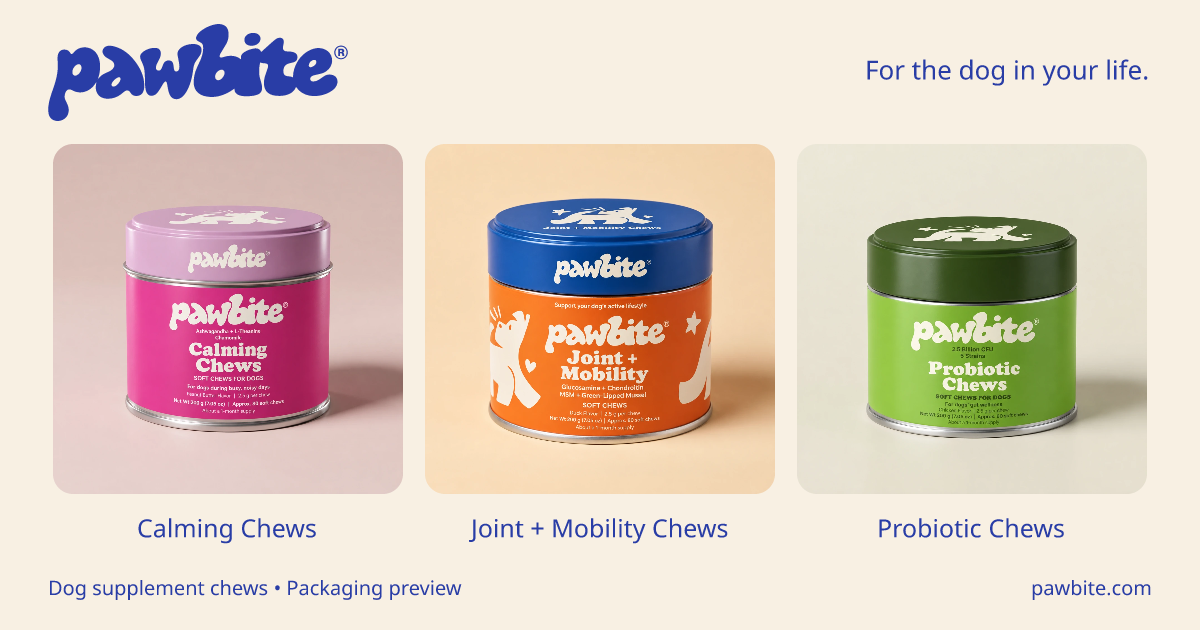
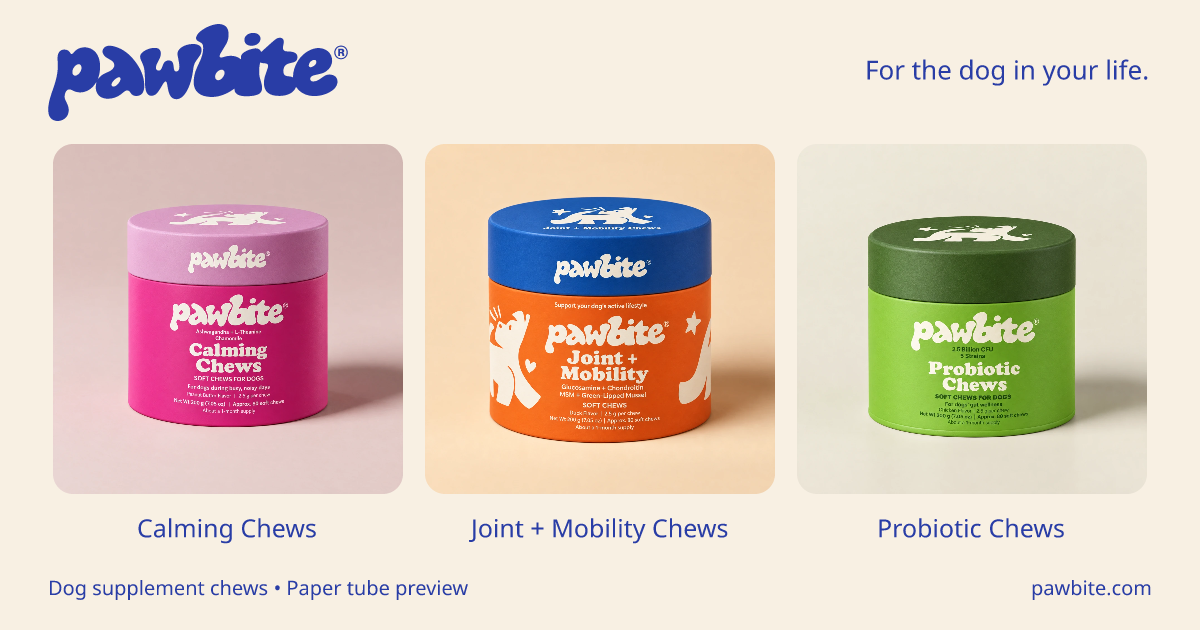
Show the confirmed paper-tube packaging throughout the site
Replace metal-looking product previews and sharing cards with approved matte paper tubes. Remove tin and HDPE wording, unverified packaging ecology claims, and metallic-style highlights in native canister illustrations.

Preserve all approved R2 label content, formulas, prices, UPCs, routes, checkout and veterinary-review gates. Verify the original 1254px assets, type-check, lint, 19 tests, TSX parses, production build and desktop/mobile product presentation.

diff --git a/components/pdp/product-photo.tsx b/components/pdp/product-photo.tsx
@@ -15,12 +15,12 @@ export function ProductPhoto({ product }: { product: Product }) {
         type="button"
         className="group relative block w-full cursor-zoom-in overflow-hidden rounded-[2rem] border border-forest/10"
         onClick={() => dialog.current?.showModal()}
-        aria-label={`Enlarge ${product.name} packaging preview`}
+        aria-label={`Enlarge ${product.name} paper tube packaging preview`}
         aria-haspopup="dialog"
       >
         <Image
           src={product.imageSrc}
-          alt={`PawBite ${product.name} packaging preview, ${product.countLabel.toLowerCase()}`}
+          alt={`PawBite ${product.name} paper tube packaging preview, ${product.countLabel.toLowerCase()}`}
           width={product.imageWidth ?? 2048}
           height={product.imageHeight ?? 2048}
           priority
@@ -31,10 +31,10 @@ export function ProductPhoto({ product }: { product: Product }) {
           <Maximize2 size={14} aria-hidden="true" /> A closer look
         </span>
       </button>
-      <p className="mt-2 text-center text-xs text-charcoal/65">Packaging preview</p>
+      <p className="mt-2 text-center text-xs text-charcoal/65">Paper tube packaging preview</p>
       <dialog
         ref={dialog}
-        aria-label={`${product.name} packaging preview`}
+        aria-label={`${product.name} paper tube packaging preview`}
         className="m-auto max-h-[92dvh] w-[min(92vw,850px)] max-w-none overflow-auto rounded-3xl bg-cream p-0 shadow-2xl backdrop:bg-charcoal/75"
       >
         <div className="sticky top-0 z-10 flex items-center justify-between gap-4 border-b border-forest/10 bg-cream px-5 py-3">
@@ -50,7 +50,7 @@ export function ProductPhoto({ product }: { product: Product }) {
         </div>
         <Image
           src={product.imageSrc}
-          alt={`Enlarged PawBite ${product.name} packaging preview`}
+          alt={`Enlarged PawBite ${product.name} paper tube packaging preview`}
           width={product.imageWidth ?? 2048}
           height={product.imageHeight ?? 2048}
           sizes="(max-width: 923px) 92vw, 850px"

diff --git a/components/brand/illustrations/scenes/dog-chew-scene.tsx b/components/brand/illustrations/scenes/dog-chew-scene.tsx
@@ -19,7 +19,7 @@ export function DogChewScene({ size = 400, className, ...props }: Props) {
       {/* Floor shadow */}
       <ellipse cx="200" cy="270" rx="160" ry="12" fill="#1F3A2E" opacity="0.08" />
 
-      {/* Left canister */}
+      {/* Left paper tube */}
       <g transform="translate(40, 110)">
         <rect
           x="0"
@@ -31,17 +31,17 @@ export function DogChewScene({ size = 400, className, ...props }: Props) {
           stroke="#1F3A2E"
           strokeWidth="2"
         />
-        <rect x="0" y="0" width="60" height="6" rx="3" fill="#1F3A2E" fillOpacity="0.15" />
+        <rect x="0" y="0" width="60" height="8" rx="3" fill="#293DA6" />
         <rect x="0" y="50" width="60" height="20" fill="#E8B547" />
         <text x="30" y="64" textAnchor="middle" fontSize="10" fontWeight="bold" fill="#1F3A2E">
-          DAILY
+          PROBIOTIC
         </text>
         <text x="30" y="20" textAnchor="middle" fontSize="6" fill="#1F3A2E">
           PawBite
         </text>
       </g>
 
-      {/* Right canister */}
+      {/* Right paper tube */}
       <g transform="translate(300, 105)">
         <rect
           x="0"
@@ -53,10 +53,10 @@ export function DogChewScene({ size = 400, className, ...props }: Props) {
           stroke="#1F3A2E"
           strokeWidth="2"
         />
-        <rect x="0" y="0" width="60" height="6" rx="3" fill="#1F3A2E" fillOpacity="0.15" />
+        <rect x="0" y="0" width="60" height="8" rx="3" fill="#293DA6" />
         <rect x="0" y="55" width="60" height="20" fill="#C8765B" />
-        <text x="30" y="69" textAnchor="middle" fontSize="9" fontWeight="bold" fill="#F5EFE6">
-          HIP+JOINT
+        <text x="30" y="69" textAnchor="middle" fontSize="5.5" fontWeight="bold" fill="#F5EFE6">
+          JOINT + MOBILITY
         </text>
         <text x="30" y="20" textAnchor="middle" fontSize="6" fill="#1F3A2E">
           PawBite

diff --git a/data/products.ts b/data/products.ts
@@ -44,7 +44,7 @@ export const products: Product[] = [
     oneLineDescription: productLabels['daily-probiotic'].tagline,
     retailPrice: 32,
     subPrice: 26,
-    imageSrc: '/products/studio/probiotic-r2.webp',
+    imageSrc: '/products/studio/probiotic-paper-v1.webp',
     imageWidth: 1254,
     imageHeight: 1254,
   },
@@ -59,7 +59,7 @@ export const products: Product[] = [
     oneLineDescription: productLabels['hip-and-joint'].tagline,
     retailPrice: 38,
     subPrice: 30,
-    imageSrc: '/products/studio/joint-mobility-r2.webp',
+    imageSrc: '/products/studio/joint-mobility-paper-v1.webp',
     imageWidth: 1254,
     imageHeight: 1254,
   },
@@ -74,7 +74,7 @@ export const products: Product[] = [
     oneLineDescription: productLabels['calm'].tagline,
     retailPrice: 34,
     subPrice: 27,
-    imageSrc: '/products/studio/calming-r2.webp',
+    imageSrc: '/products/studio/calming-paper-v1.webp',
     imageWidth: 1254,
     imageHeight: 1254,
   },
@@ -91,7 +91,7 @@ export const products: Product[] = [
     retailPrice: 70,
     subPrice: 47.6,
     badge: 'Save 32%',
-    imageSrc: '/products/studio/probiotic-r2.webp',
+    imageSrc: '/products/studio/probiotic-paper-v1.webp',
     imageWidth: 1254,
     imageHeight: 1254,
   },

diff --git a/test/hero-rotation.test.tsx b/test/hero-rotation.test.tsx
@@ -28,10 +28,10 @@ describe('homepage product rotation', () => {
   it('cycles all three headlines with their matching photo, price and destination, then loops', () => {
     render(<HeroSection />);
     for (const [headline, slug, price, photo] of [
-      ['CALMING', 'calm', '34.00', 'calming-r2.webp'],
-      ['JOINT +', 'hip-and-joint', '38.00', 'joint-mobility-r2.webp'],
-      ['PROBIOTIC', 'daily-probiotic', '32.00', 'probiotic-r2.webp'],
-      ['CALMING', 'calm', '34.00', 'calming-r2.webp'],
+      ['CALMING', 'calm', '34.00', 'calming-paper-v1.webp'],
+      ['JOINT +', 'hip-and-joint', '38.00', 'joint-mobility-paper-v1.webp'],
+      ['PROBIOTIC', 'daily-probiotic', '32.00', 'probiotic-paper-v1.webp'],
+      ['CALMING', 'calm', '34.00', 'calming-paper-v1.webp'],
     ]) {
       expect(screen.getByRole('heading', { level: 1 })).toHaveTextContent(headline);
       expect(screen.getByRole('link', { name: /Explore/ })).toHaveAttribute(

diff --git a/app/shipping/page.tsx b/app/shipping/page.tsx
@@ -65,8 +65,8 @@ If the canister arrives crushed, leaking, or open, send us a photo at help@pawbi
 If your package is sent to the wrong address because you typed it wrong, we can still help. We'll redirect the original (if possible) or send a replacement at cost.`,
         },
         {
-          heading: 'Sustainability.',
-          body: "Our canisters are recyclable HDPE. The mailer is curbside-recyclable paper-based. We don't use plastic peanuts, bubble wrap, or air pillows — the canister is sturdy enough to ship without them. The shipping label adhesive is plant-based.",
+          heading: 'Packaging.',
+          body: 'Our products are packaged in paper tubes. Follow the storage directions printed on each product label.',
         },
       ]}
       contactNote="Email help@pawbite.com. We respond within one business day."

diff --git a/components/brand/canister.tsx b/components/brand/canister.tsx
@@ -55,8 +55,8 @@ export function Canister({
       )}
       {...props}
     >
-      <div className="absolute left-0 right-0 top-0 h-3 rounded-t-2xl bg-forest/15" />
-      <div className="absolute bottom-2 left-2 top-3 w-2 rounded-full bg-white/30" />
+      <div className="absolute left-0 right-0 top-0 h-3 rounded-t-2xl border-b border-forest/20 bg-forest" />
+      <div className="absolute bottom-0 left-0 right-0 h-1 border-t border-forest/10 bg-cream-2" />
       <div className="absolute left-0 right-0 top-5 text-center">
         <span className="font-display text-xs tracking-wide text-forest">PawBite</span>
       </div>

diff --git a/components/pdp/pdp-hero.tsx b/components/pdp/pdp-hero.tsx
@@ -34,7 +34,7 @@ export function PdpHero({ product }: { product: ProductDetail }) {
         <dl className="mt-5 grid grid-cols-2 divide-x divide-forest/15 rounded-2xl border border-forest/15 bg-offwhite py-4 text-center">
           <div className="px-3">
             <dt className="text-[10px] font-bold uppercase tracking-[0.14em] text-charcoal/70">
-              Inside every tin
+              Inside every tube
             </dt>
             <dd className="mt-1 text-sm font-bold">{product.countLabel.toLowerCase()}</dd>
           </div>

diff --git a/components/sections/hero.tsx b/components/sections/hero.tsx
@@ -117,7 +117,7 @@ export function HeroSection() {
             <Image
               key={product.slug}
               src={product.imageSrc!}
-              alt={`PawBite ${product.name} packaging preview, ${product.countLabel.toLowerCase()}`}
+              alt={`PawBite ${product.name} paper tube packaging preview, ${product.countLabel.toLowerCase()}`}
               width={product.imageWidth ?? 2048}
               height={product.imageHeight ?? 2048}
               priority={selected === 0}

diff --git a/components/content/content-page.tsx b/components/content/content-page.tsx
@@ -215,7 +215,7 @@ export function articleSchema({
     '@type': 'Article',
     headline: title,
     description,
-    image: `${SITE_URL}/share/pawbite-line-r2.png`,
+    image: `${SITE_URL}/share/pawbite-line-paper-v1.png`,
     author: { '@type': 'Organization', name: byline.author },
     // Only assert a named reviewer once a real DVM has signed (VET_REVIEW_LIVE).
     ...(VET_REVIEW_LIVE && byline.reviewedBy

diff --git a/components/brand/product-visual.tsx b/components/brand/product-visual.tsx
@@ -31,7 +31,7 @@ export function ProductVisual({
           <Image
             key={item.slug}
             src={item.imageSrc!}
-            alt={`PawBite ${item.name} packaging preview`}
+            alt={`PawBite ${item.name} paper tube packaging preview`}
             width={item.imageWidth ?? 896}
             height={item.imageHeight ?? 1216}
             priority={priority}

diff --git a/lib/social.ts b/lib/social.ts
@@ -1,7 +1,7 @@
 import type { Metadata } from 'next';
 import { SITE_DESCRIPTION, SITE_NAME, SITE_URL } from './seo';
 
-export const SHARE_IMAGE = '/share/pawbite-line-r2.png';
+export const SHARE_IMAGE = '/share/pawbite-line-paper-v1.png';
 
 /** Next replaces nested metadata objects; keep every override's image intact. */
 export function socialMetadata({

diff --git a/app/products/[slug]/page.tsx b/app/products/[slug]/page.tsx
@@ -35,7 +35,7 @@ export function generateMetadata({ params }: { params: { slug: string } }): Meta
       title: `${product.seoTitle} · PawBite`,
       description: product.seoDescription,
       url: `${SITE_URL}/products/${product.slug}`,
-      image: `/share/${product.slug}-r2.png`,
+      image: `/share/${product.slug}-paper-v1.png`,
     }),
   };
 }
